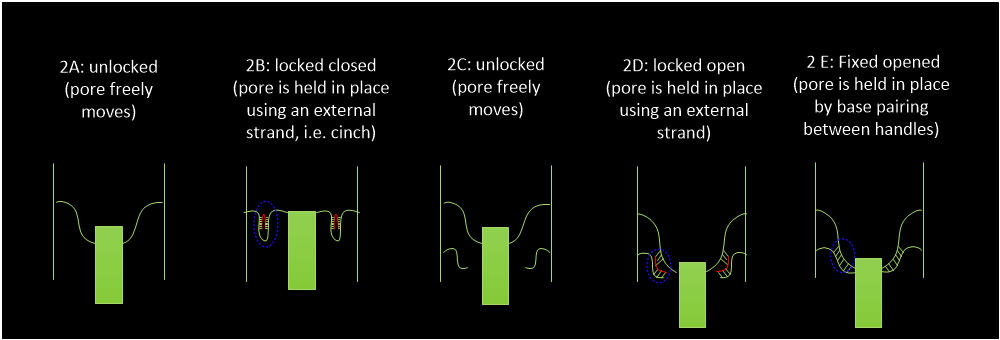
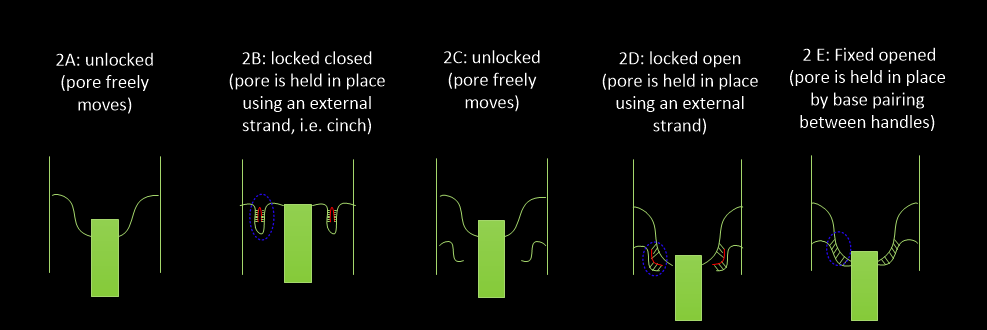
Fig

diff --git a/wiki.html b/wiki.html
@@ -1090,9 +1090,9 @@ Additions to nanopore to target peptidoglycan layer of the bacterial membrane wo
         The DNA used in the folding of DN2 can be categorised into three groups; outer (O), inner middle (IM) and scaffold staples (SS). The same categorisation can still be applied to the different DNA strands used in the DNAlien. The strands responsible for folding helix 12 (H12) and helix 26 (H26) in both DN2 and the DNAlien are not included in these categorisations. This is because H12 and H26 have different variants depending on the desired conformation of the DNAlien, hence are kept separate from the O, IM and SS pools. 
       </p>
 
-      <figure style="width:42vw; min-width: 280px;">
+      <figure style="width:62vw; min-width: 280px;">
         <p>
-          <img src="/dnaliens/images/wiki/DNAlienAssembly/2AtoE.png" style="width:40vw; min-width: 270px;" class="imgcenter">
+          <img src="/dnaliens/images/wiki/DNAlienAssembly/2AtoE.png" style="width:60vw; min-width: 270px;" class="imgcenter">
         </p>
         <figcaption>
                  <b>Figure X.</b> Schematic representation of DNAlien (with 6HB) folded in different conformations.
